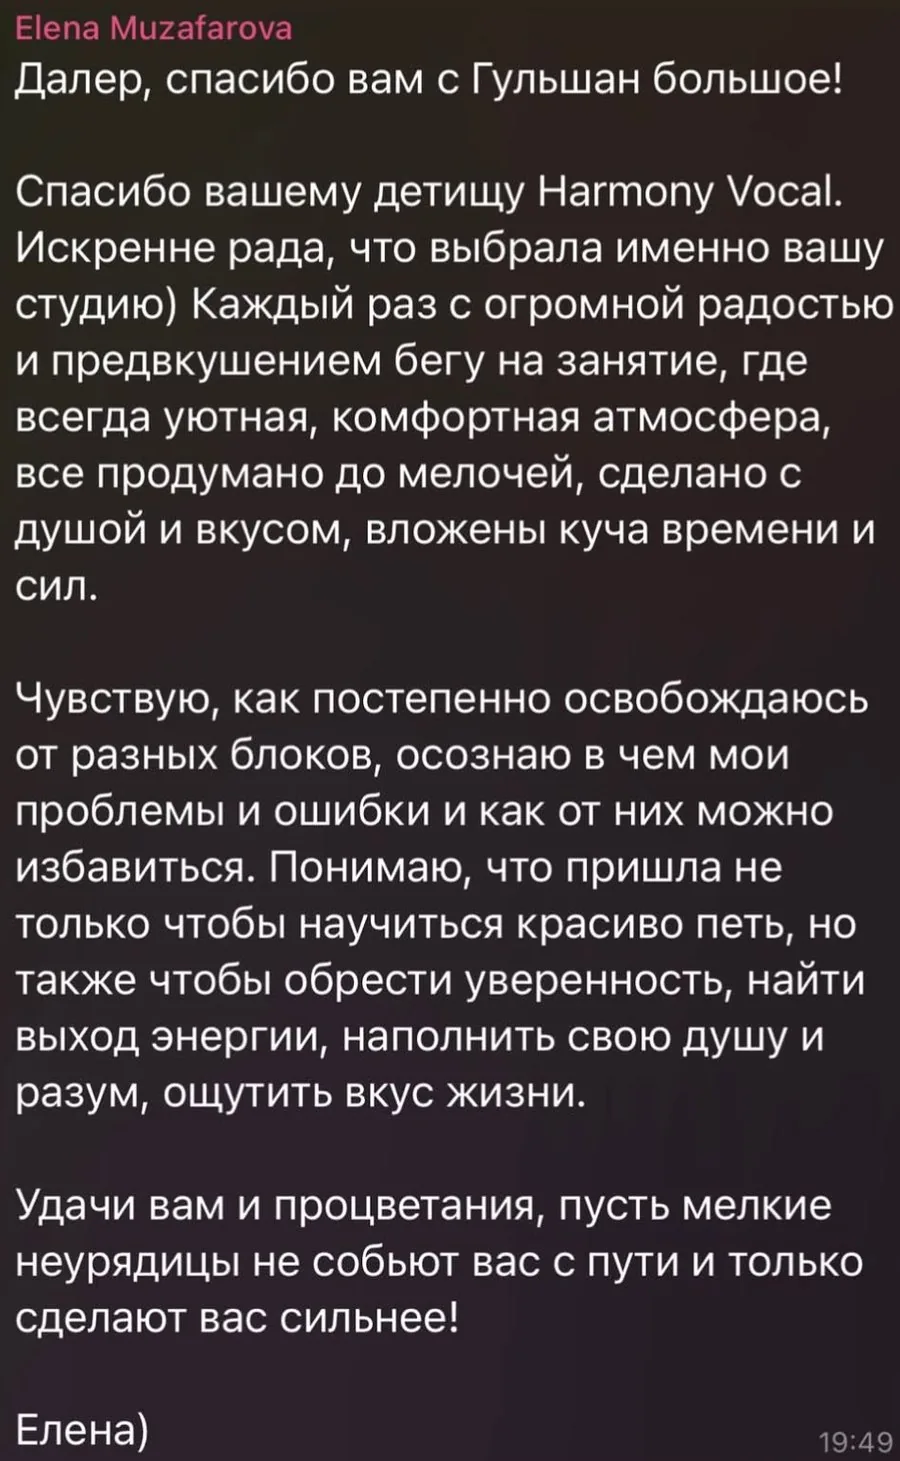
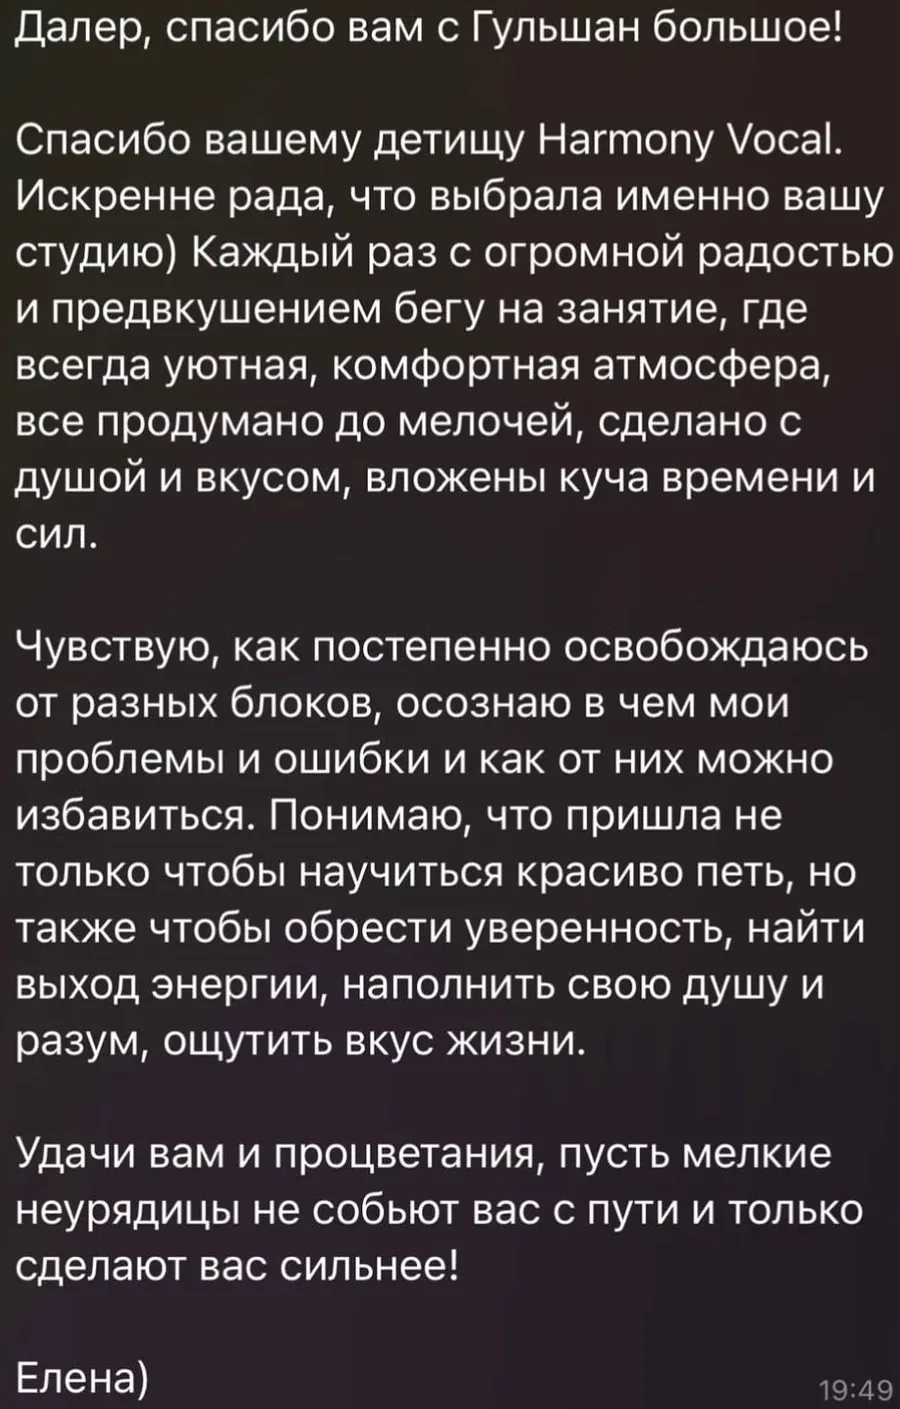
Уменьшены отступы, перестроены отзывы, новый микрофон, точки на карте
Отступы. Вертикальные поля секций уменьшены на треть: 76/92/120/140 ->
54/66/84/96 px, отступ под заголовком секции 38/52 -> 28/36. Страница
стала короче на 3000 px (16800 -> 13765), плотнее всего это заметно на
десктопе, где отступы и были самыми large.

Отзывы. Причина бага: раскладка на CSS columns балансирует колонки по
высоте, поэтому один длинный вертикальный отзыв растягивал блок до 909 px
и оставлял пустоту рядом. Заменено на обычную сетку: три колонки на
десктопе, две на планшете, одна на телефоне. Высота картинки ограничена
380 px с обрезкой снизу — текст отзыва идёт сверху, по клику отзыв
открывается целиком. Высота блока 909 -> 437 px.

Из скриншотов отзывов убраны фамилии: у Елены — подпись сверху,
у Ренаты — шапка чата с фамилией Гульшан. Размеры в разметке обновлены
под новые файлы.

Микрофон на первом экране перерисован под ретро-модель с афиши студии:
головка с сеткой, подвес на шарнирах, ножка и круглое основание,
за ними расходятся лучи.

Карта: для филиала на Юсуф Хос Ходжиба выставлена точка 41.2988056,
69.2596944, «Проложить маршрут» ведёт по ссылкам, присланным студией.
Снята пометка о проверке фотографий педагогов — они подтверждены.

Проверено: консоль чистая, все ресурсы грузятся, 11 кнопок записи ведут
по верному адресу, меню, FAQ, слайдер и вкладки филиалов работают, битых
якорей и путей нет, перекрытий 0 на тринадцати ширинах.

Claude-Session: https://claude.ai/code/session_01KtgHo2fbyB333XG5GHT63c

diff --git a/index.html b/index.html
@@ -465,8 +465,6 @@
       </p>
     </header>
 
-    <!-- ПРОВЕРИТЬ: не перепутаны ли фото Гульшан и Камилы.
-         Если да — поменяйте местами src и alt в двух карточках. -->
     <div class="teachers__grid">
 
       <article class="teacher reveal-stagger">
@@ -574,7 +572,7 @@
       <figure class="polaroid reveal-stagger">
         <div class="polaroid__tape"></div>
         <a class="polaroid__img" href="assets/img/reviews/renata.webp" target="_blank" rel="noopener" aria-label="Открыть отзыв полностью">
-          <img src="assets/img/reviews/renata.webp" alt="Отзыв ученицы Ренаты о занятиях в студии Harmony" width="871" height="467" loading="lazy" decoding="async">
+          <img src="assets/img/reviews/renata.webp" alt="Отзыв ученицы Ренаты о занятиях в студии Harmony" width="871" height="347" loading="lazy" decoding="async">
         </a>
         <figcaption>
           <p class="polaroid__author">Рената · апрель 2024</p>
@@ -594,7 +592,7 @@
       <figure class="polaroid reveal-stagger">
         <div class="polaroid__tape"></div>
         <a class="polaroid__img" href="assets/img/reviews/elena.webp" target="_blank" rel="noopener" aria-label="Открыть отзыв полностью">
-          <img src="assets/img/reviews/elena.webp" alt="Отзыв Елены о вокальной студии Harmony" width="900" height="1461" loading="lazy" decoding="async">
+          <img src="assets/img/reviews/elena.webp" alt="Отзыв Елены о вокальной студии Harmony" width="900" height="1409" loading="lazy" decoding="async">
         </a>
         <figcaption>
           <p class="polaroid__author">Елена · декабрь 2023</p>
@@ -850,7 +848,7 @@
         </p>
         <p class="place__metro">Рядом со станцией метро «Ташкент»</p>
         <p class="place__who"><span>Педагоги:</span> Камила, Азиза, Мохитобон</p>
-        <a class="place__route" href="https://yandex.uz/maps/?text=Ташкент, улица Амира Темура, 30" target="_blank" rel="noopener">Проложить маршрут</a>
+        <a class="place__route" href="https://maps.app.goo.gl/LBm3QjVSyHVTG4fQ6" target="_blank" rel="noopener">Проложить маршрут</a>
       </article>
       <article class="place reveal-stagger">
         <span class="place__num">Филиал 02</span>
@@ -861,7 +859,7 @@
         </p>
         <p class="place__metro">Вход со стороны улицы</p>
         <p class="place__who"><span>Педагоги:</span> Далер, Гульшан</p>
-        <a class="place__route" href="https://yandex.uz/maps/?text=Ташкент, улица Юсуф Хос Ходжиба, 43" target="_blank" rel="noopener">Проложить маршрут</a>
+        <a class="place__route" href="https://www.google.com/maps?q=41.2988056,69.2596944" target="_blank" rel="noopener">Проложить маршрут</a>
       </article>
     </div>
 
@@ -894,7 +892,7 @@
             Дворец железнодорожников
           </button>
           <button class="map__tab" type="button" role="tab" aria-selected="false"
-                  data-map="https://yandex.uz/map-widget/v1/?text=%D0%A2%D0%B0%D1%88%D0%BA%D0%B5%D0%BD%D1%82%2C%20%D1%83%D0%BB%D0%B8%D1%86%D0%B0%20%D0%AE%D1%81%D1%83%D1%84%20%D0%A5%D0%BE%D1%81%20%D0%A5%D0%BE%D0%B4%D0%B6%D0%B8%D0%B1%D0%B0%2C%2043&amp;z=17&amp;lang=ru_RU">
+                  data-map="https://yandex.uz/map-widget/v1/?ll=69.2596944%2C41.2988056&amp;z=17&amp;pt=69.2596944%2C41.2988056%2Cpm2rdm&amp;lang=ru_RU">
             Юсуф Хос Ходжиб
           </button>
         </div>

diff --git a/assets/css/sections.css b/assets/css/sections.css
@@ -251,7 +251,7 @@ body.nav-open{ overflow:hidden; }
   display:grid;
   grid-template-columns:1fr;
   gap:14px;
-  margin-bottom:52px;
+  margin-bottom:36px;
 }
 
 .card{
@@ -831,8 +831,12 @@ body.nav-open{ overflow:hidden; }
 /* Отзывы разной высоты: раскладываем колонками-потоком,
    иначе под коротким скриншотом остаётся дыра */
 .reviews__grid{
-  columns:1;
-  column-gap:34px;
+  /* сетка, а не columns: колонки балансировали по высоте и один длинный
+     отзыв растягивал весь блок, оставляя пустоту рядом */
+  display:grid;
+  grid-template-columns:1fr;
+  gap:28px;
+  align-items:start;
 }
 
 .polaroid{
@@ -841,15 +845,14 @@ body.nav-open{ overflow:hidden; }
   /* отзывы должны читаться, поэтому карточка во всю ширину колонки
      и без наклона — наклонённый скриншот выглядит обрезанным */
   width:100%;
-  margin:0 auto 40px;
-  padding:12px 12px 16px;
+  margin:0;
+  padding:10px 10px 14px;
   background:#f4f2ed;
   border-radius:4px;
   transform:none;
   box-shadow:0 22px 45px -20px rgba(0,0,0,.85);
   transition:transform .4s var(--ease);
 }
-.polaroid--tilt-r{ transform:none; }
 .polaroid:hover{ transform:translateY(-5px); }
 
 /* чёрный скотч по углу */
@@ -876,8 +879,17 @@ body.nav-open{ overflow:hidden; }
   background:#20242e;
   overflow:hidden;
 }
-/* Скриншоты отзывов показываем целиком, без обрезки */
-.polaroid__img img{ width:100%; height:auto; display:block; }
+/* Высота ограничена, иначе вертикальный скриншот вырастает вдвое выше
+   соседей и распирает секцию. Обрезаем снизу — текст отзыва идёт сверху,
+   по клику открывается целиком. */
+.polaroid__img img{
+  width:100%;
+  height:auto;
+  max-height:380px;
+  object-fit:cover;
+  object-position:top center;
+  display:block;
+}
 /* Плейсхолдеры без реального содержимого остаются квадратными */
 
 .polaroid figcaption{ margin-top:14px; padding:0 4px; }
@@ -893,7 +905,7 @@ body.nav-open{ overflow:hidden; }
 /* ================= ОТЧЁТНЫЕ КОНЦЕРТЫ ================= */
 
 .gig{
-  margin-top:72px;
+  margin-top:48px;
   display:grid;
   grid-template-columns:1fr;
   gap:26px;

diff --git a/assets/css/responsive.css b/assets/css/responsive.css
@@ -5,7 +5,7 @@
 
 /* ---------- ≥ 600px: планшет в портрете ---------- */
 @media (min-width: 600px){
-  :root{ --gutter:28px; --section-pad:92px; }
+  :root{ --gutter:28px; --section-pad:66px; }
 
   .method__grid{ grid-template-columns:repeat(2, 1fr); gap:16px; }
   .solo__grid{ grid-template-columns:repeat(2, 1fr); gap:16px; }
@@ -27,8 +27,7 @@
   .sub{ padding:30px 26px; }
   .price{ padding:34px 28px; }
 
-  .reviews__grid{ columns:2; column-gap:34px; }
-  .polaroid{ width:100%; }
+  .reviews__grid{ grid-template-columns:repeat(2, 1fr); }
   .gig{ grid-template-columns:1.2fr 1fr; align-items:center; padding:30px 28px; }
 
   .footer__nav{ grid-template-columns:repeat(3, 1fr); }
@@ -42,7 +41,7 @@
 
 /* ---------- ≥ 900px: десктоп ---------- */
 @media (min-width: 900px){
-  :root{ --gutter:32px; --section-pad:120px; }
+  :root{ --gutter:32px; --section-pad:84px; }
 
   html{ scroll-padding-top:90px; }
 
@@ -107,7 +106,7 @@
   .hero__facts b{ font-size:2.1rem; }
 
   .section__lead{ font-size:1.05rem; }
-  .section__head{ margin-bottom:52px; }
+  .section__head{ margin-bottom:36px; }
 
   .method__grid{ grid-template-columns:repeat(4, 1fr); }
   .method__grid--three{ grid-template-columns:repeat(3, 1fr); }
@@ -136,8 +135,7 @@
   .teacher__photo{ width:100%; max-width:230px; }
   .teacher__name{ font-size:1.6rem; }
 
-  .reviews__grid{ columns:2; column-gap:44px; }
-  .polaroid{ width:100%; margin-bottom:44px; }
+  .reviews__grid{ grid-template-columns:repeat(3, 1fr); }
   /* фотоколонка шире текстовой: общий план зала должен читаться */
   .gig{ grid-template-columns:1fr 1.15fr; padding:36px 34px; gap:40px; }
   .logo__img{ height:36px; }
@@ -164,7 +162,7 @@
 
 /* ---------- ≥ 1200px ---------- */
 @media (min-width: 1200px){
-  :root{ --section-pad:140px; }
+  :root{ --section-pad:96px; }
 
   .hero__title{ font-size:clamp(3.6rem, 5.4vw, 6.6rem); }
   .section__title{ font-size:clamp(3rem, 4.6vw, 4.6rem); }

diff --git a/assets/css/base.css b/assets/css/base.css
@@ -31,7 +31,7 @@
   --container: 1200px;
   --gutter: 20px;
   --radius: 14px;
-  --section-pad: 76px;
+  --section-pad: 54px;
 
   --ease: cubic-bezier(.22,.61,.36,1);
 }
@@ -240,7 +240,7 @@ main, .footer, .marquee{ position:relative; z-index:1; }
   position:relative;
 }
 
-.section__head{ margin-bottom:38px; }
+.section__head{ margin-bottom:28px; }
 
 /* ---------- ЛОГОТИП-ЭКВАЛАЙЗЕР ---------- */
 
